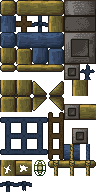
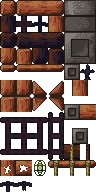
Add scanlines

diff --git a/docs/CREDITS.md b/docs/CREDITS.md
@@ -27,7 +27,7 @@ Tux - CC-BY-SA 4.0
 Penny - CC-BY-SA 4.0
 Konqi - CC-BY-SA 4.0
 Katie - CC-BY-SA 4.0
-Midi Waffle - CC-BY-SA 4.0
+Midi Waffle - CC-BY-SA 4.0 / KLPL
 Cannon Bob - CC-BY-SA 4.0
 Igloo edits - CC-BY-SA 4.0
 Mama Bear - CC-BY-SA 4.0
@@ -42,6 +42,8 @@ Item blocks - CC-BY-SA 4.0
 Debug graphics - CC-BY-SA 4.0
 Elemental explosions - CC-BY-SA 4.0
 tux-title.png - CC-BY-SA 4.0
+duke.png - CC-BY-SA 4.0 / KLPL
+duke-crusher.png - CC-BY-SA 4.0 / KLPL
 
 **All graphics by Kelvin are CC-BY-SA 4.0**
 acid.png
